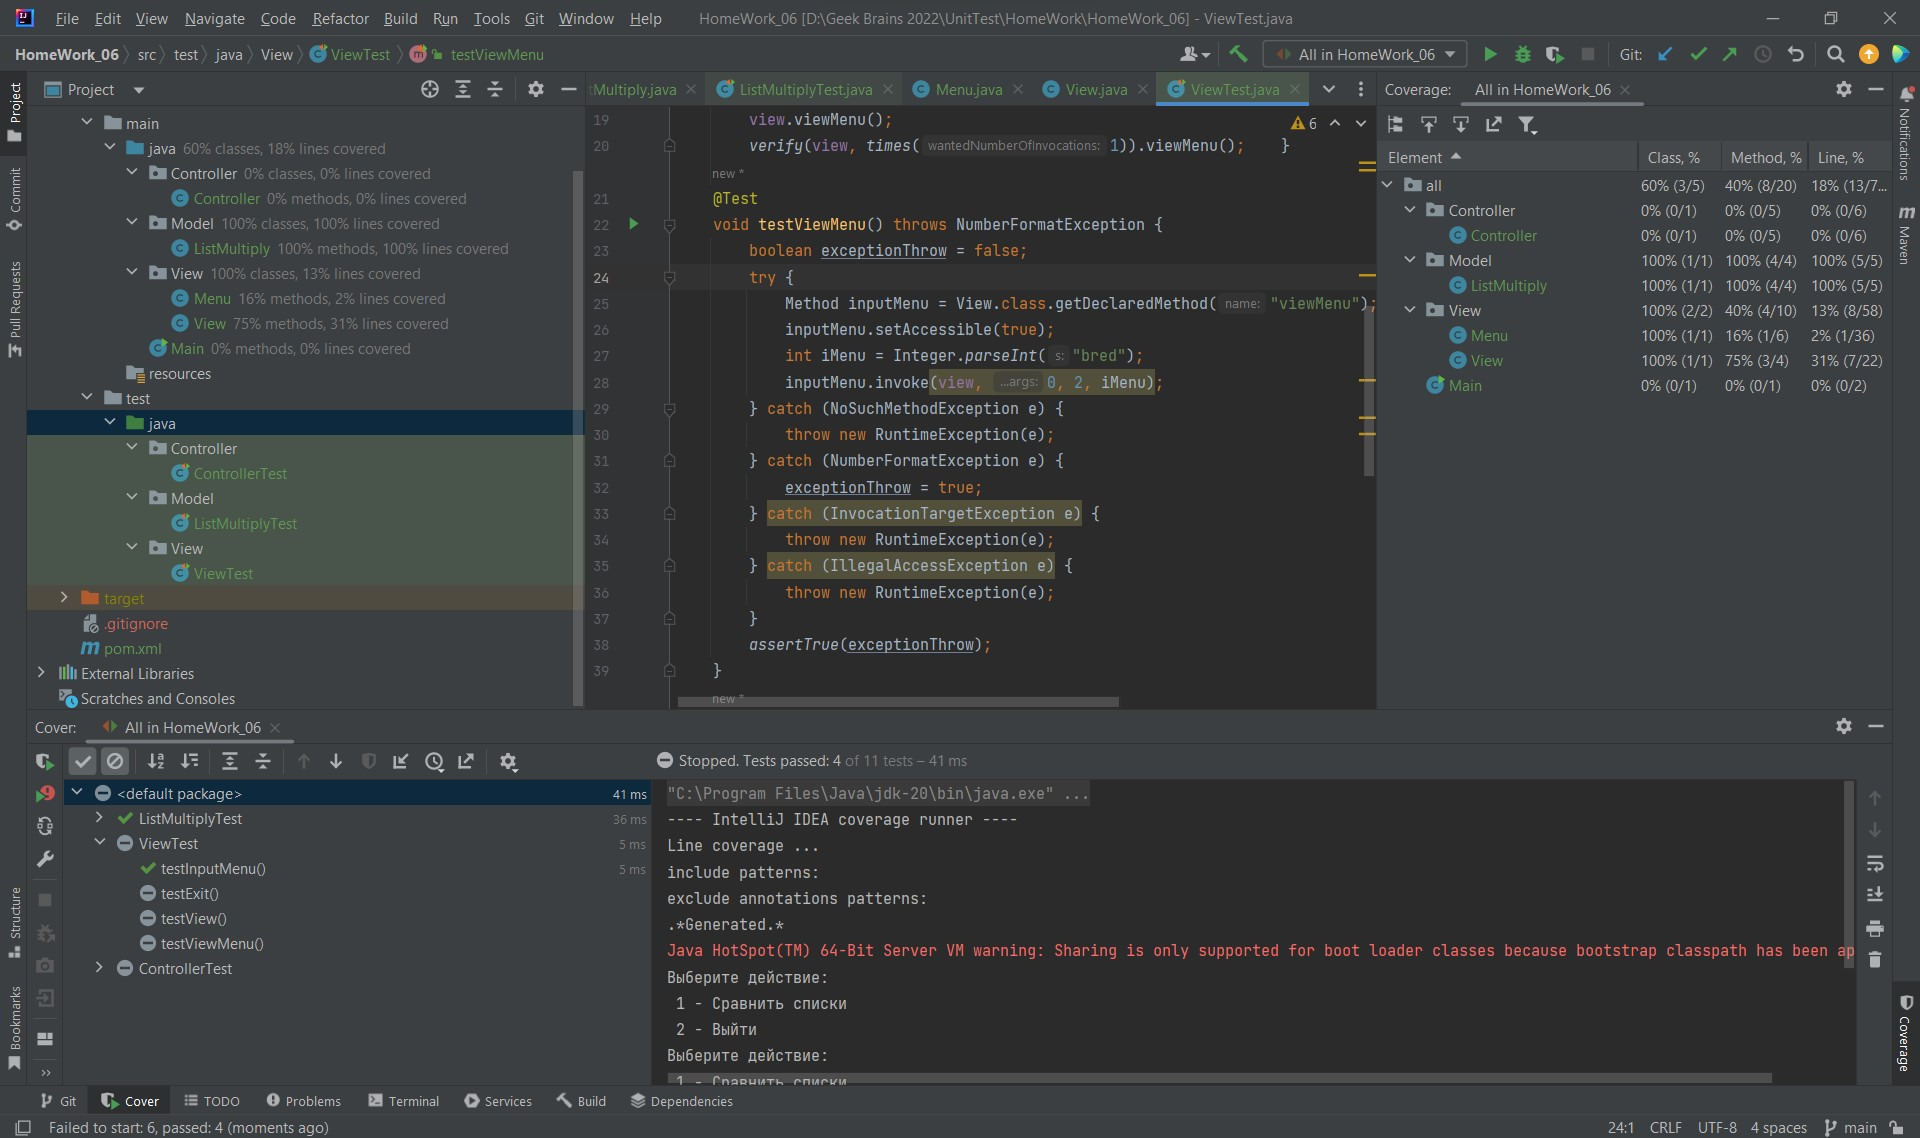
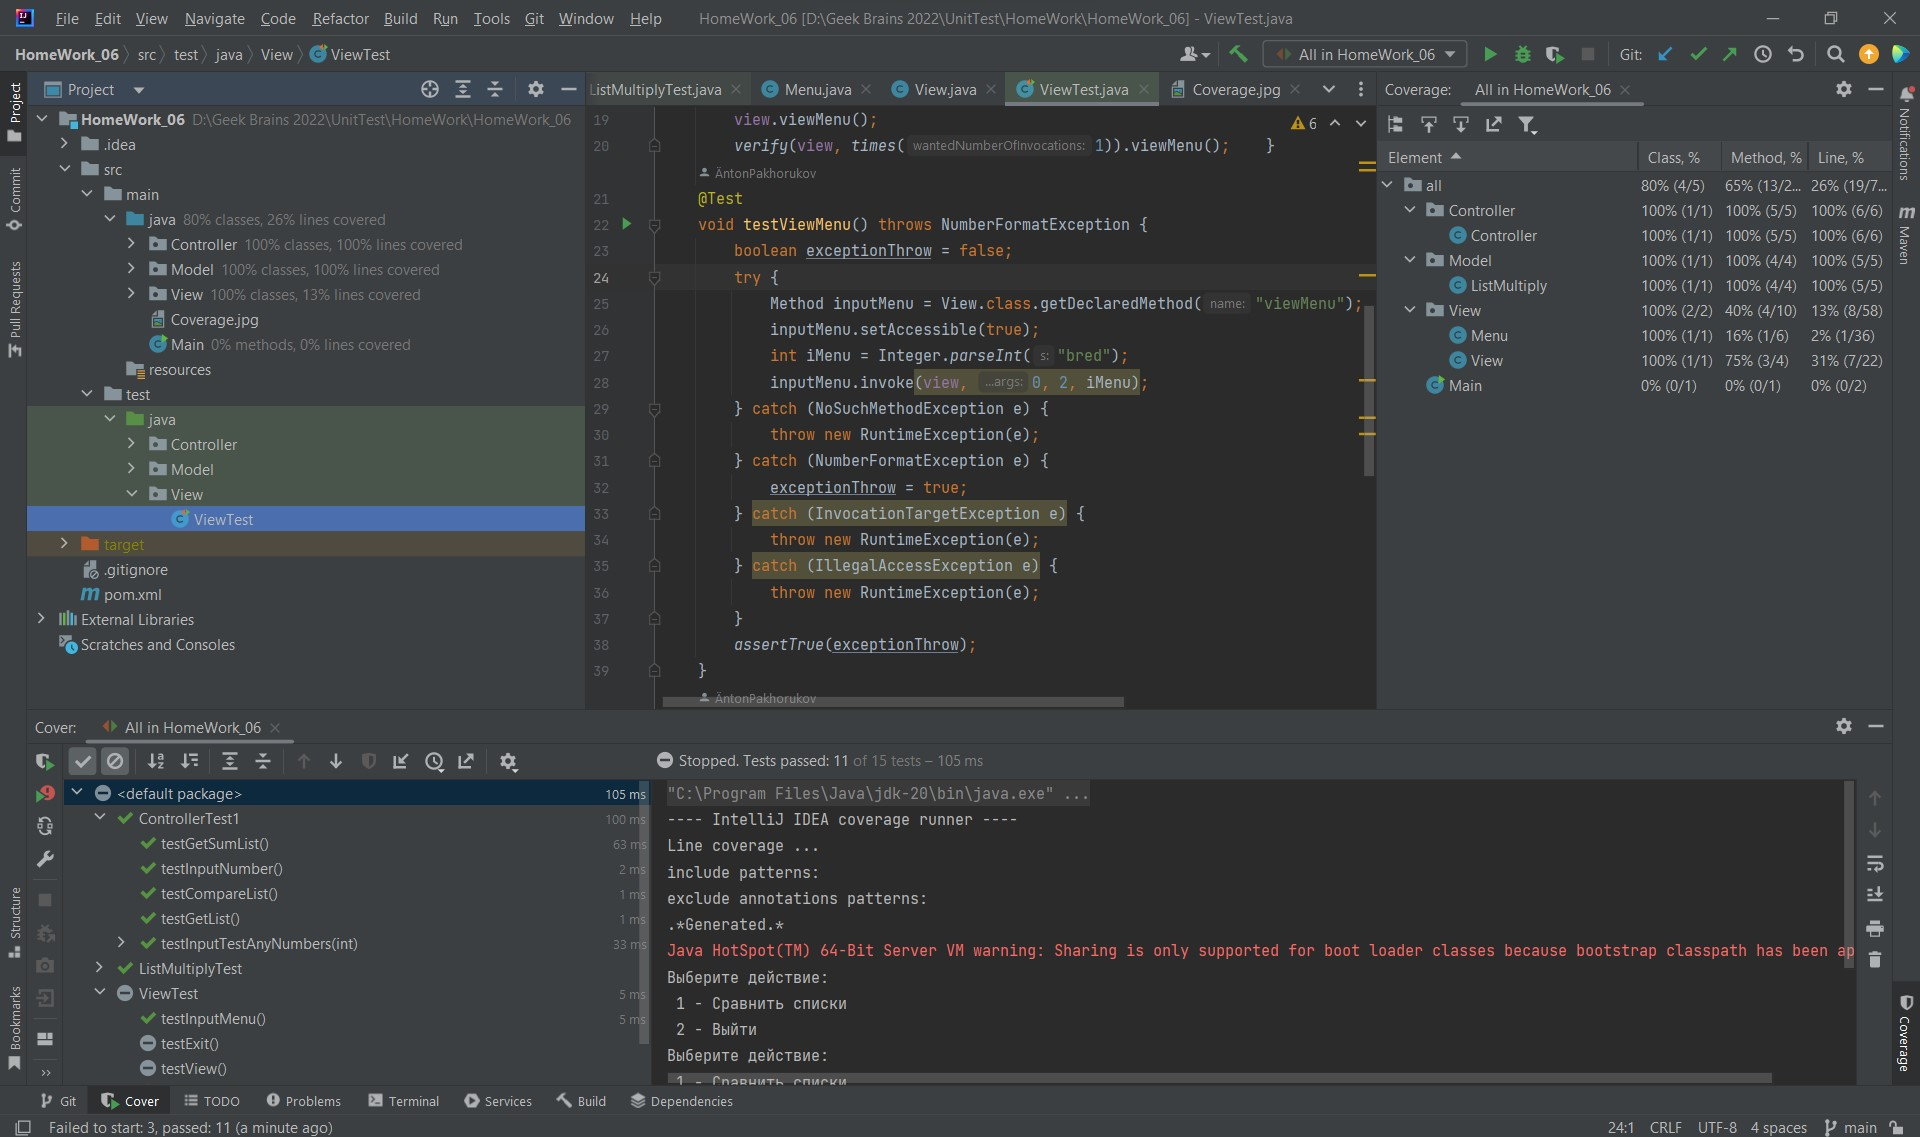
HomeWork_06_edit

diff --git a/HomeWork_06/src/test/java/Controller/ControllerTest1.java b/HomeWork_06/src/test/java/Controller/ControllerTest1.java
@@ -2,38 +2,45 @@ package Controller;
 
 import org.junit.jupiter.api.BeforeEach;
 import org.junit.jupiter.api.Test;
+import org.junit.jupiter.params.ParameterizedTest;
+import org.junit.jupiter.params.provider.ValueSource;
 
 import static org.junit.jupiter.api.Assertions.*;
 
-class ControllerTest {
+class ControllerTest1 {
     Controller controller;
     @BeforeEach
-    void testInit(){
+    void testInit() {
         controller = new Controller();
     }
-
     @Test
-    void inputNumber() {
+    void testInputNumber() {
         controller.inputNumber(5);
         assertEquals(5, controller.getList().get(0));
-    }
 
+    }
+    @ParameterizedTest
+    @ValueSource(ints = {5, 8 ,9})
+    void testInputTestAnyNumbers(int i){
+        controller.inputNumber(i);
+        assertEquals(i, controller.getList().get(0));
+    }
     @Test
-    void getList() {
+    void testGetList() {
         int[] test = new int[] {3, 5, 6};
         fillList(test, controller);
         assertEquals("[3, 5, 6]", controller.getList().toString());
     }
 
     @Test
-    void getSumList() {
+    void testGetSumList() {
         int[] test = new int[] {1, 2, 3, 4 ,5};
         fillList(test, controller);
         assertEquals(3, controller.getSumList());
     }
 
     @Test
-    void compareList() {
+    void testCompareList() {
         Controller controller1 = new Controller();
         int[] testArray1 = new int[] {3, 5, 7, 9};
         fillList(testArray1, controller1);
